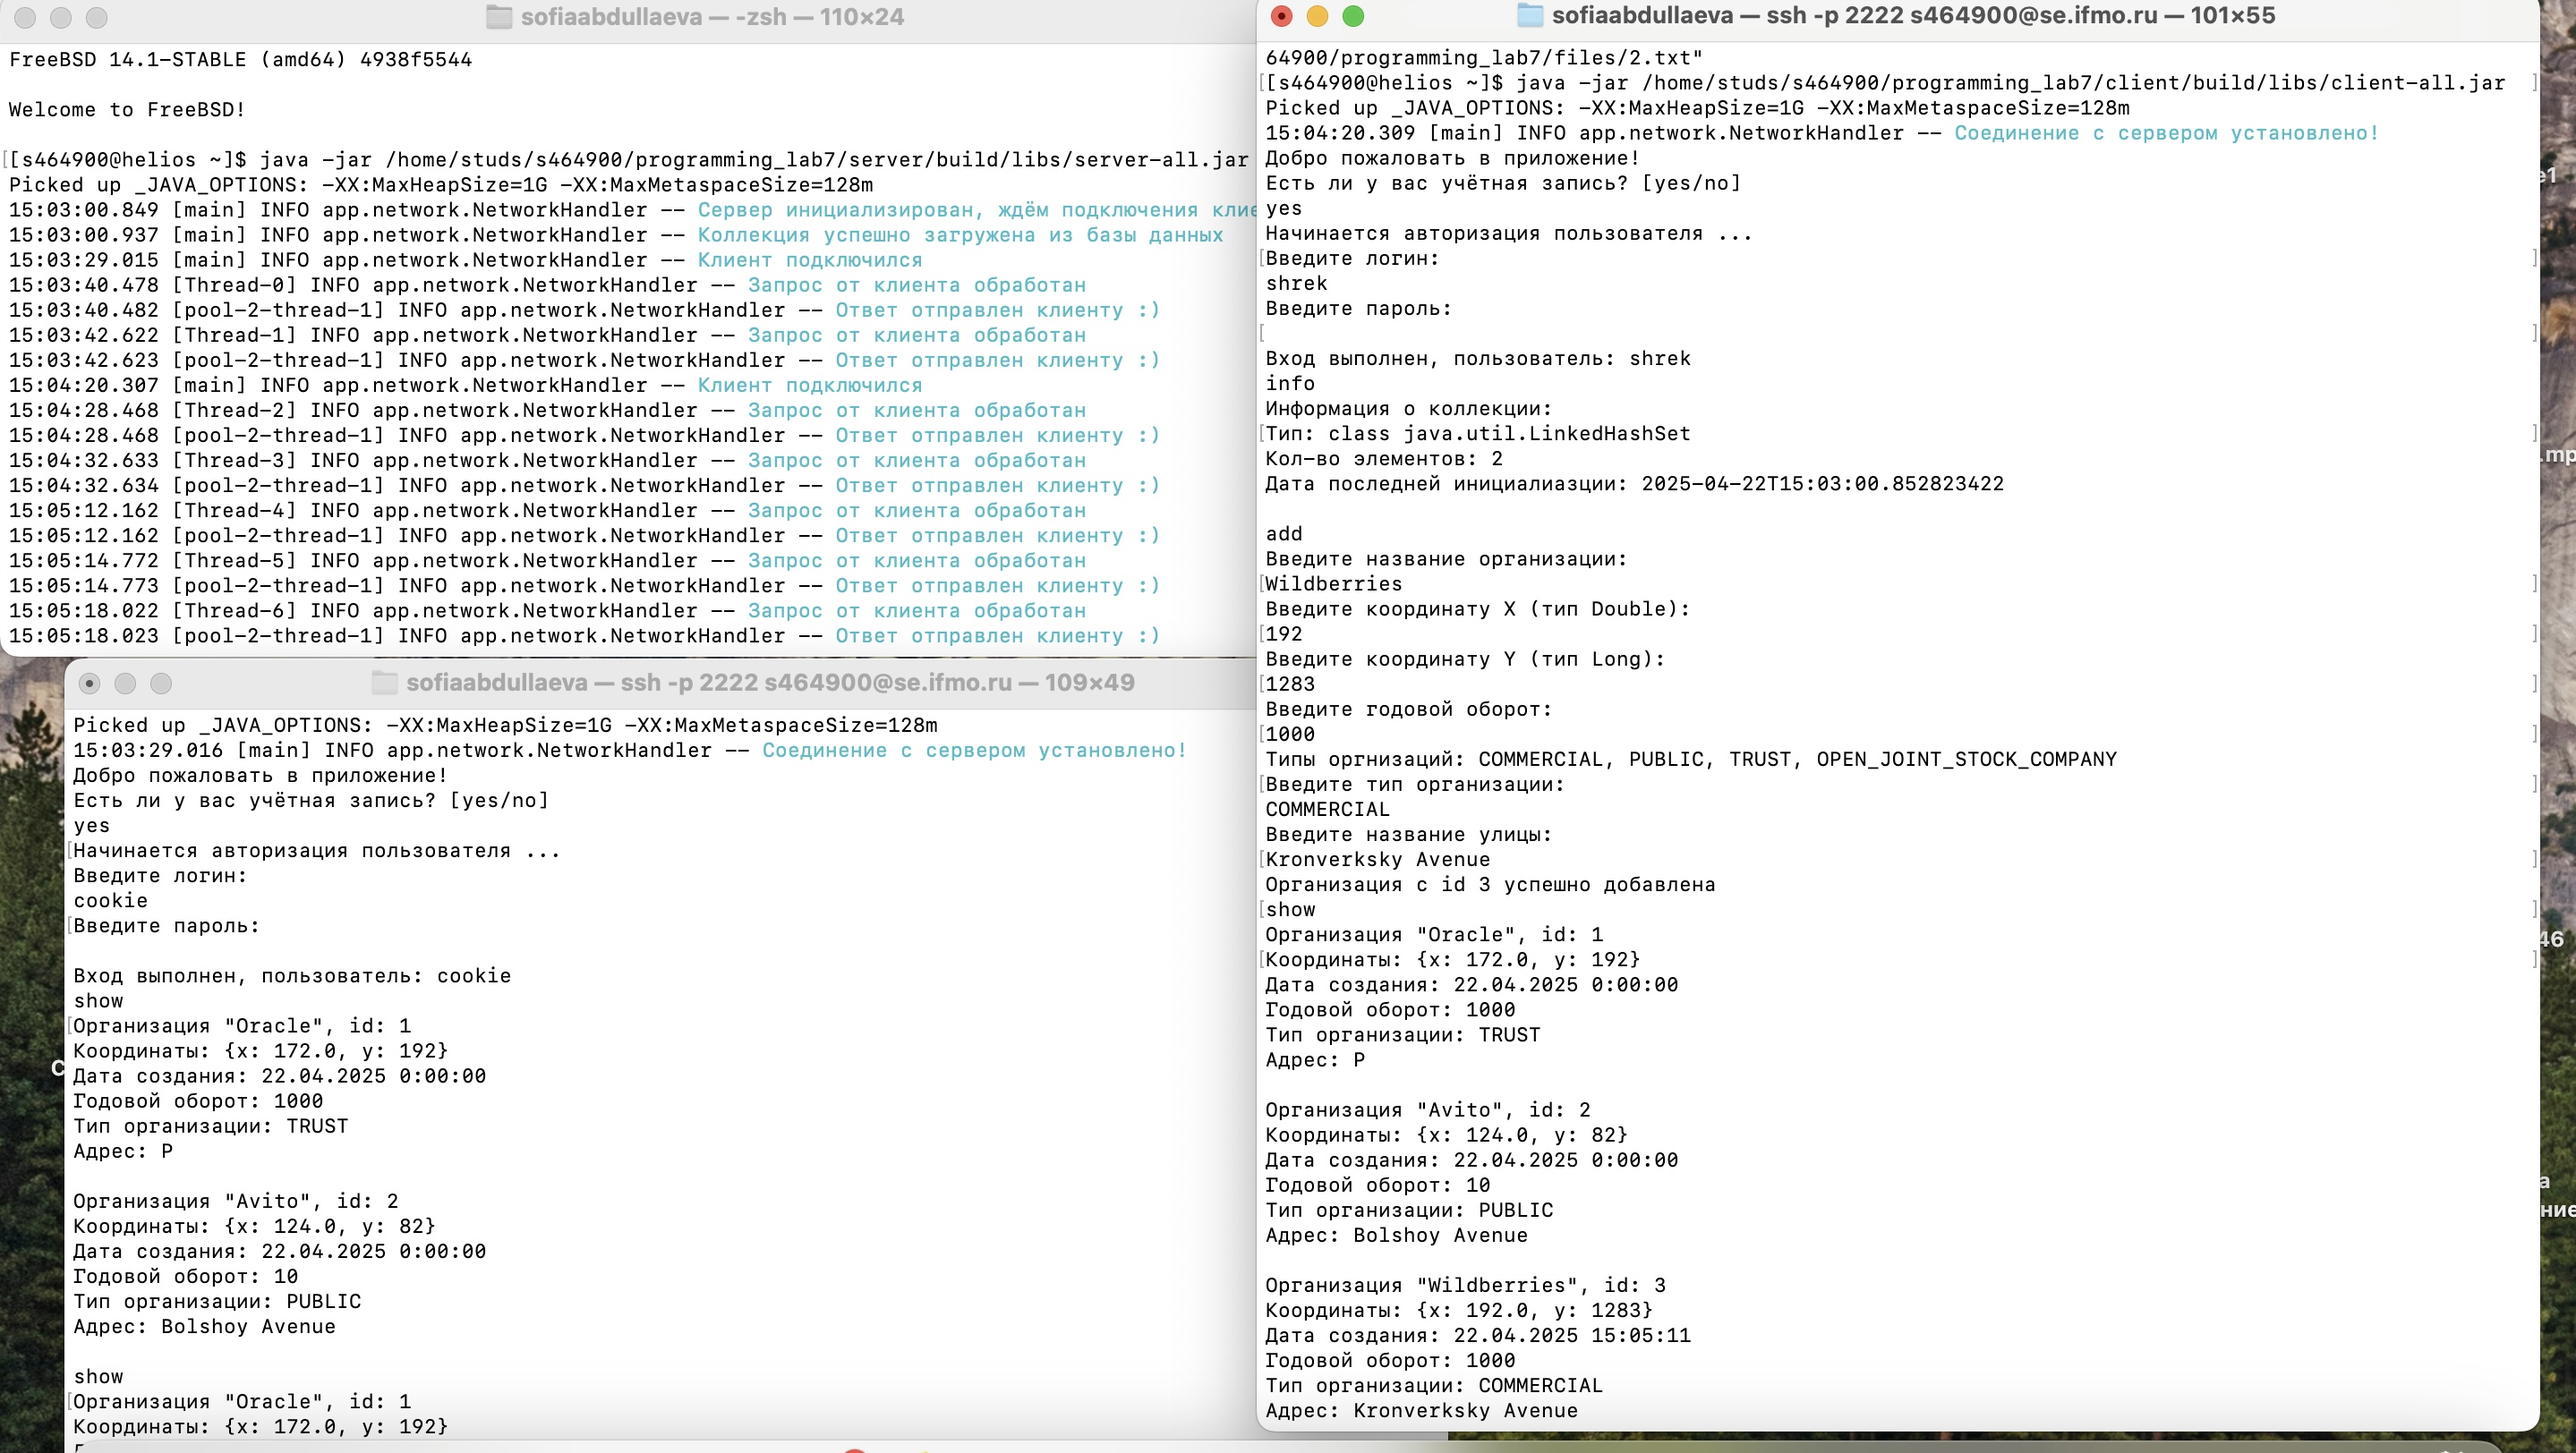
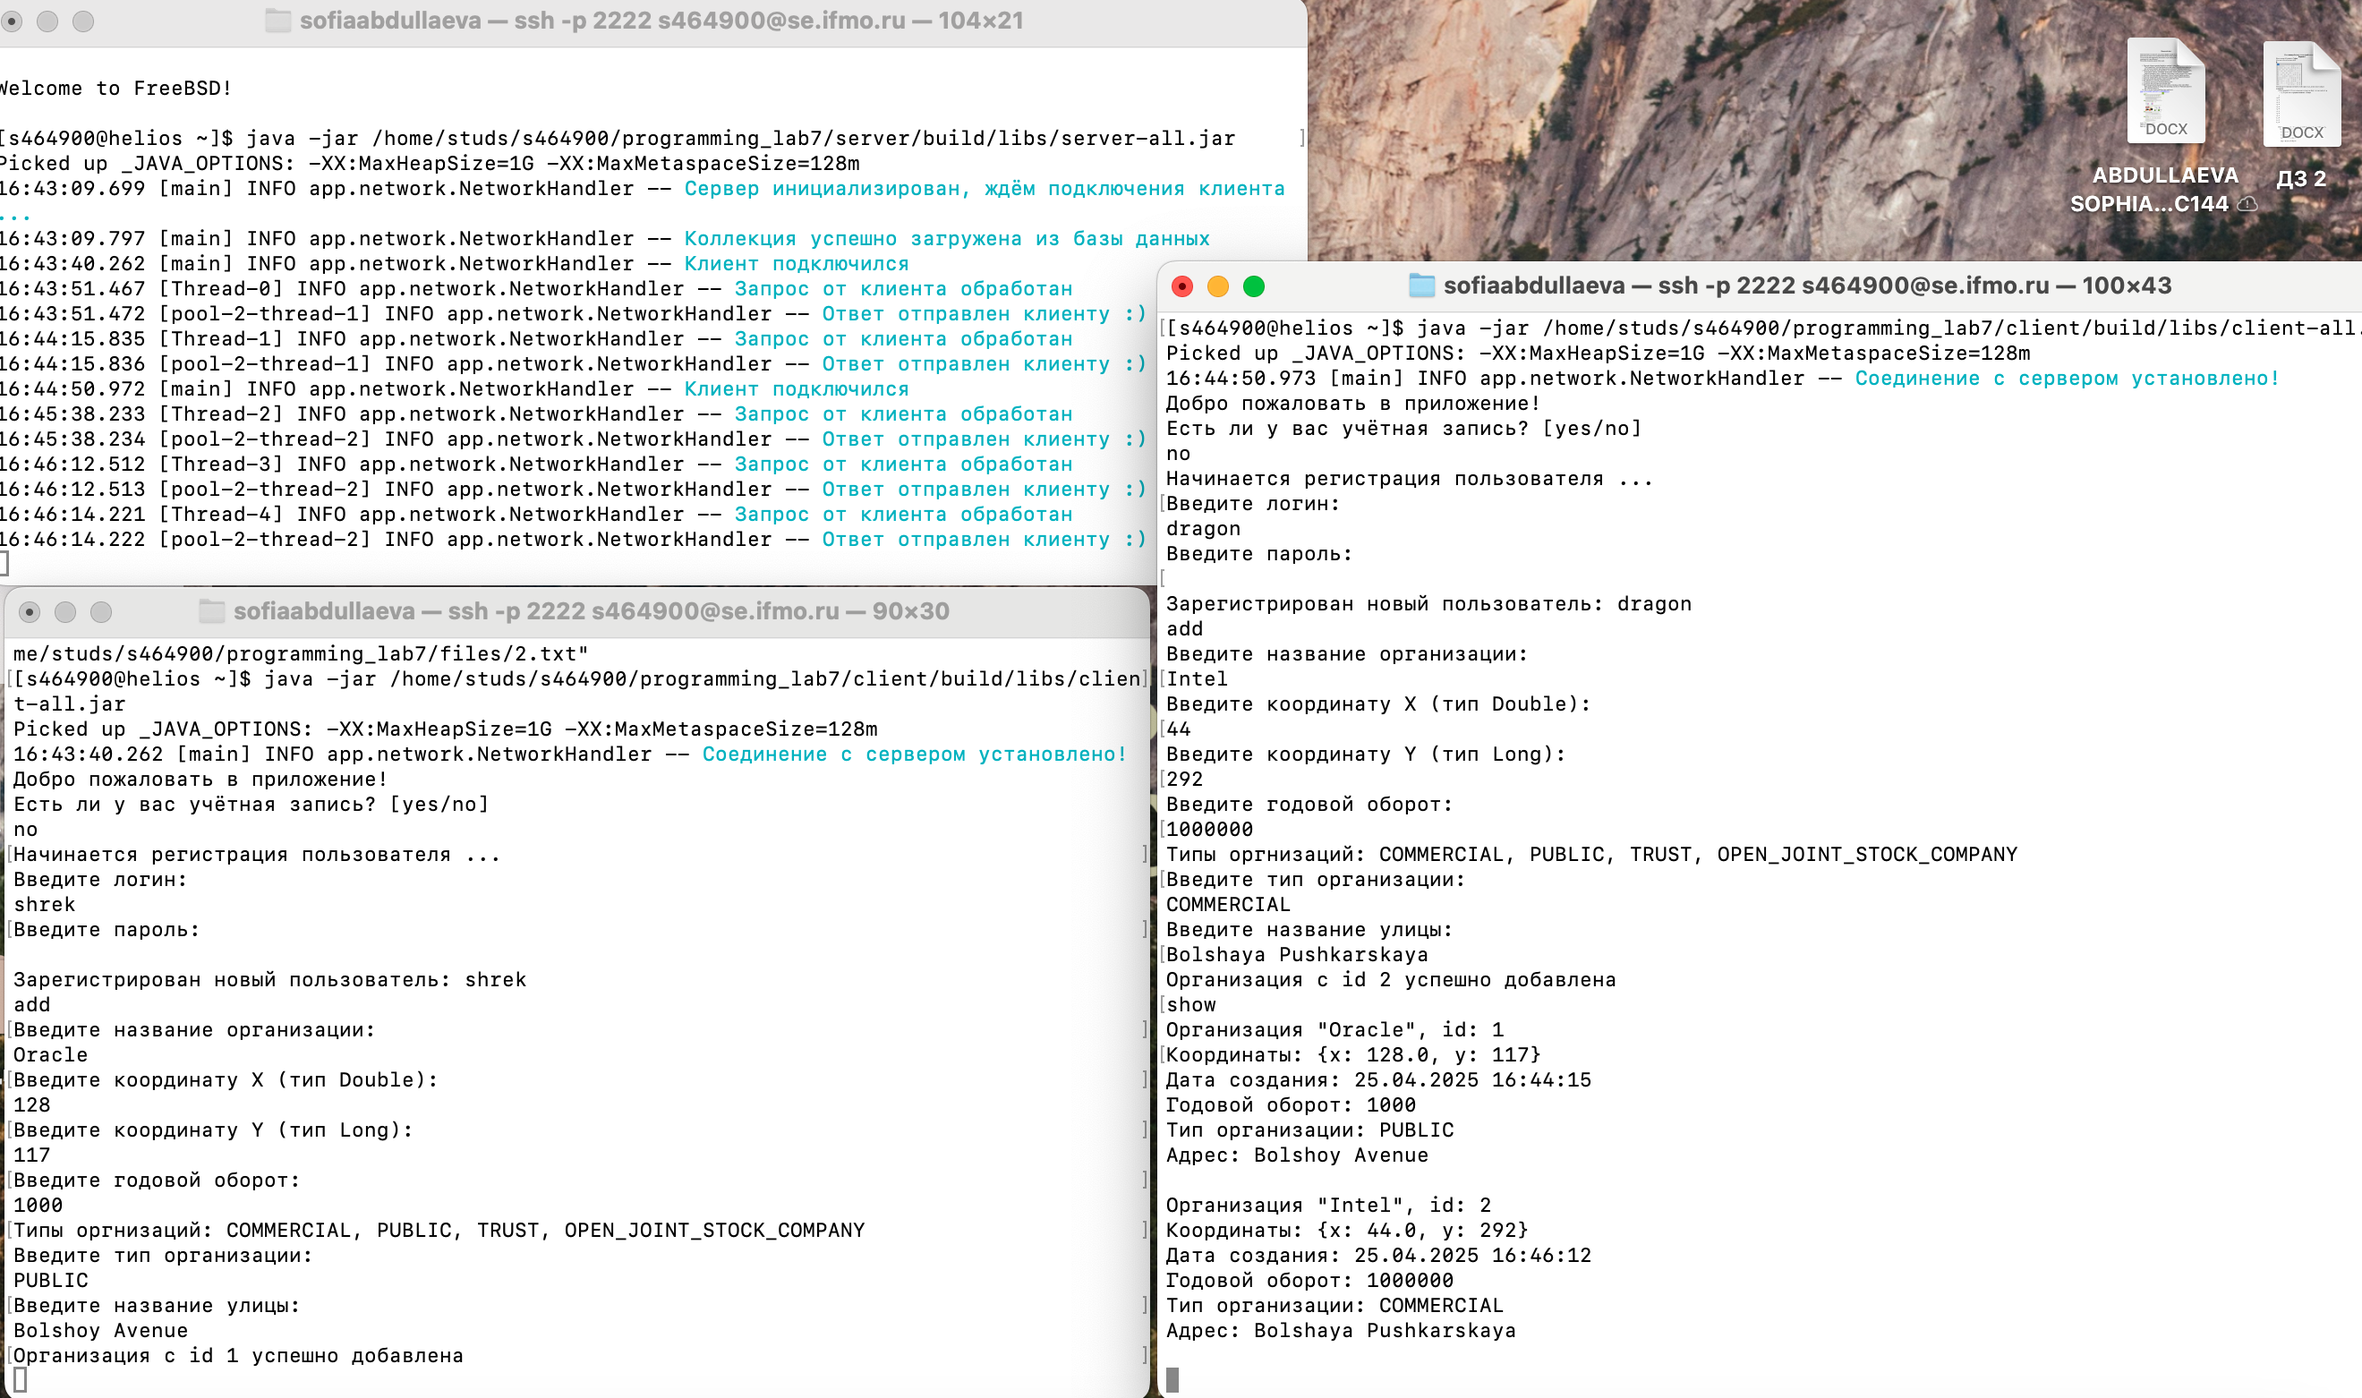
changed date type to timestamp and updated screenshots of working code

Changed region(s): [[0.0, 0.0, 1.0, 1.0], [0.7768, 0.5839, 0.839, 0.6146]]

diff --git a/server/src/main/java/app/database/DatabaseUserManager.java b/server/src/main/java/app/database/DatabaseUserManager.java
@@ -180,7 +180,7 @@ public class DatabaseUserManager {
                 Long id = result.getLong("id");
                 String name = result.getString("org_name");
                 Coordinates coordinates = new Coordinates(result.getDouble("coordinate_x"), result.getLong("coordinate_y"));
-                LocalDateTime date = result.getDate("creation_date").toLocalDate().atStartOfDay();
+                LocalDateTime date = result.getTimestamp("creation_date").toLocalDateTime();
                 long annualTurnover = result.getLong("annual_turnover");
                 String type = result.getString("type");
                 OrganizationType organizationType;
@@ -250,11 +250,11 @@ public class DatabaseUserManager {
         try (Connection connection = dbManager.getConnection()) {
             PreparedStatement statement = connection.prepareStatement(addQuery, Statement.RETURN_GENERATED_KEYS);
             Coordinates coordinates = organization.getCoordinates();
-            java.sql.Date date = Date.valueOf(organization.getCreationDate().toLocalDate());
+            java.sql.Timestamp date = Timestamp.valueOf(organization.getCreationDate());
             statement.setString(1, organization.getName());
             statement.setDouble(2, coordinates.getX());
             statement.setLong(3, coordinates.getY());
-            statement.setDate(4, date);
+            statement.setTimestamp(4, date);
             statement.setLong(5, organization.getAnnualTurnover());
             if (organization.getType() != null) {
                 statement.setString(6, organization.getType().toString());
@@ -346,7 +346,7 @@ public class DatabaseUserManager {
             updateStatement.setString(1, newOrganization.getName());
             updateStatement.setDouble(2, newOrganization.getCoordinates().getX());
             updateStatement.setLong(3, newOrganization.getCoordinates().getY());
-            updateStatement.setDate(4, Date.valueOf(newOrganization.getCreationDate().toLocalDate()));
+            updateStatement.setTimestamp(4, Timestamp.valueOf(newOrganization.getCreationDate()));
             updateStatement.setLong(5, newOrganization.getAnnualTurnover());
             if (newOrganization.getType() != null) {
                 updateStatement.setString(6, newOrganization.getType().toString());

diff --git a/server/src/main/java/app/database/DatabaseManager.java b/server/src/main/java/app/database/DatabaseManager.java
@@ -58,7 +58,7 @@ public class DatabaseManager {
                     org_name TEXT NOT NULL,
                     coordinate_x DOUBLE PRECISION NOT NULL CHECK(coordinate_x > -947),
                     coordinate_y BIGINT NOT NULL,
-                    creation_date DATE NOT NULL,
+                    creation_date TIMESTAMP NOT NULL,
                     annual_turnover BIGINT NOT NULL CHECK(annual_turnover > 0),
                     type VARCHAR(20) CHECK(type in ('PUBLIC', 'TRUST', 'COMMERCIAL', 'OPEN_JOINT_STOCK_COMPANY') OR type IS NULL),
                     postal_address TEXT NOT NULL,
